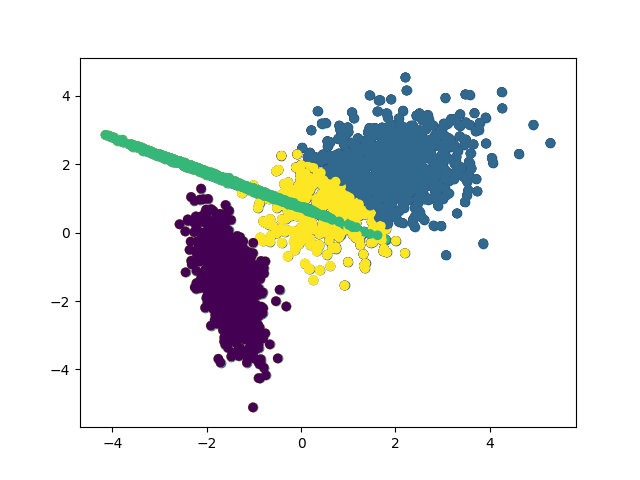
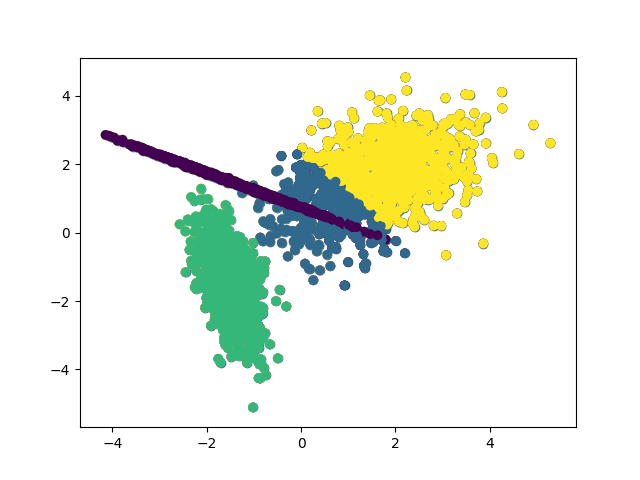
refactoring

diff --git a/run_gmm.py b/run_gmm.py
@@ -15,42 +15,21 @@ print(dataset.head())
 plt.scatter(dataset[0],dataset[1])
 plt.savefig("scatter.png")
 
+for i in range(5):
+	n = i + 2
+	# print(n)
+	kmeans_predictions = KMeans(n_clusters=n).fit_predict(dataset)
+	plt.scatter(dataset[0],dataset[1], c=kmeans_predictions)
+	plt.savefig("scatter_kmean" + str(n) + ".png")
+	print("kmean "  + str(n) + " clusters")
+	print(metrics.silhouette_score(dataset, kmeans_predictions))
 
-kmeans_predictions4 = KMeans(n_clusters=4).fit_predict(dataset)
-plt.scatter(dataset[0],dataset[1], c=kmeans_predictions4)
-plt.savefig("scatter_kmean4.png")
-print("kmean 4 clusters")
-print(metrics.silhouette_score(dataset, kmeans_predictions4))
-
-kmeans_predictions3 = KMeans(n_clusters=3).fit_predict(dataset)
-plt.scatter(dataset[0],dataset[1], c=kmeans_predictions3)
-plt.savefig("scatter_kmean3.png")
-print("kmean 3 clusters")
-print(metrics.silhouette_score(dataset, kmeans_predictions3))
-
-
-kmeans_predictions2 = KMeans(n_clusters=2).fit_predict(dataset)
-plt.scatter(dataset[0],dataset[1], c=kmeans_predictions2)
-plt.savefig("scatter_kmean2.png")
-print("kmean 2 clusters")
-print(metrics.silhouette_score(dataset, kmeans_predictions2))
-
-
-gaussian_predictions4 = GaussianMixture(n_components=4).fit(dataset).predict(dataset)
-plt.scatter(dataset[0],dataset[1], c=gaussian_predictions4)
-plt.savefig("scatter_gaussian4.png")
-print("gaussian 4 components")
-print(metrics.silhouette_score(dataset, gaussian_predictions4))
-
-gaussian_predictions3 = GaussianMixture(n_components=3).fit(dataset).predict(dataset)
-plt.scatter(dataset[0],dataset[1], c=gaussian_predictions3)
-plt.savefig("scatter_gaussian3.png")
-print("gaussian 3 components")
-print(metrics.silhouette_score(dataset, gaussian_predictions3))
-
-gaussian_predictions2 = GaussianMixture(n_components=2).fit(dataset).predict(dataset)
-plt.scatter(dataset[0],dataset[1], c=gaussian_predictions2)
-plt.savefig("scatter_gaussian2.png")
-print("gaussian 2 components")
-print(metrics.silhouette_score(dataset, gaussian_predictions2))
+for i in range(5):
+	n = i + 2
+	# print(n)
+	gaussian_predictions = GaussianMixture(n_components=n).fit(dataset).predict(dataset)
+	plt.scatter(dataset[0],dataset[1], c=gaussian_predictions)
+	plt.savefig("scatter_guassian" + str(n) + ".png")
+	print("gaussian "  + str(n) + " components")
+	print(metrics.silhouette_score(dataset, gaussian_predictions))
 
